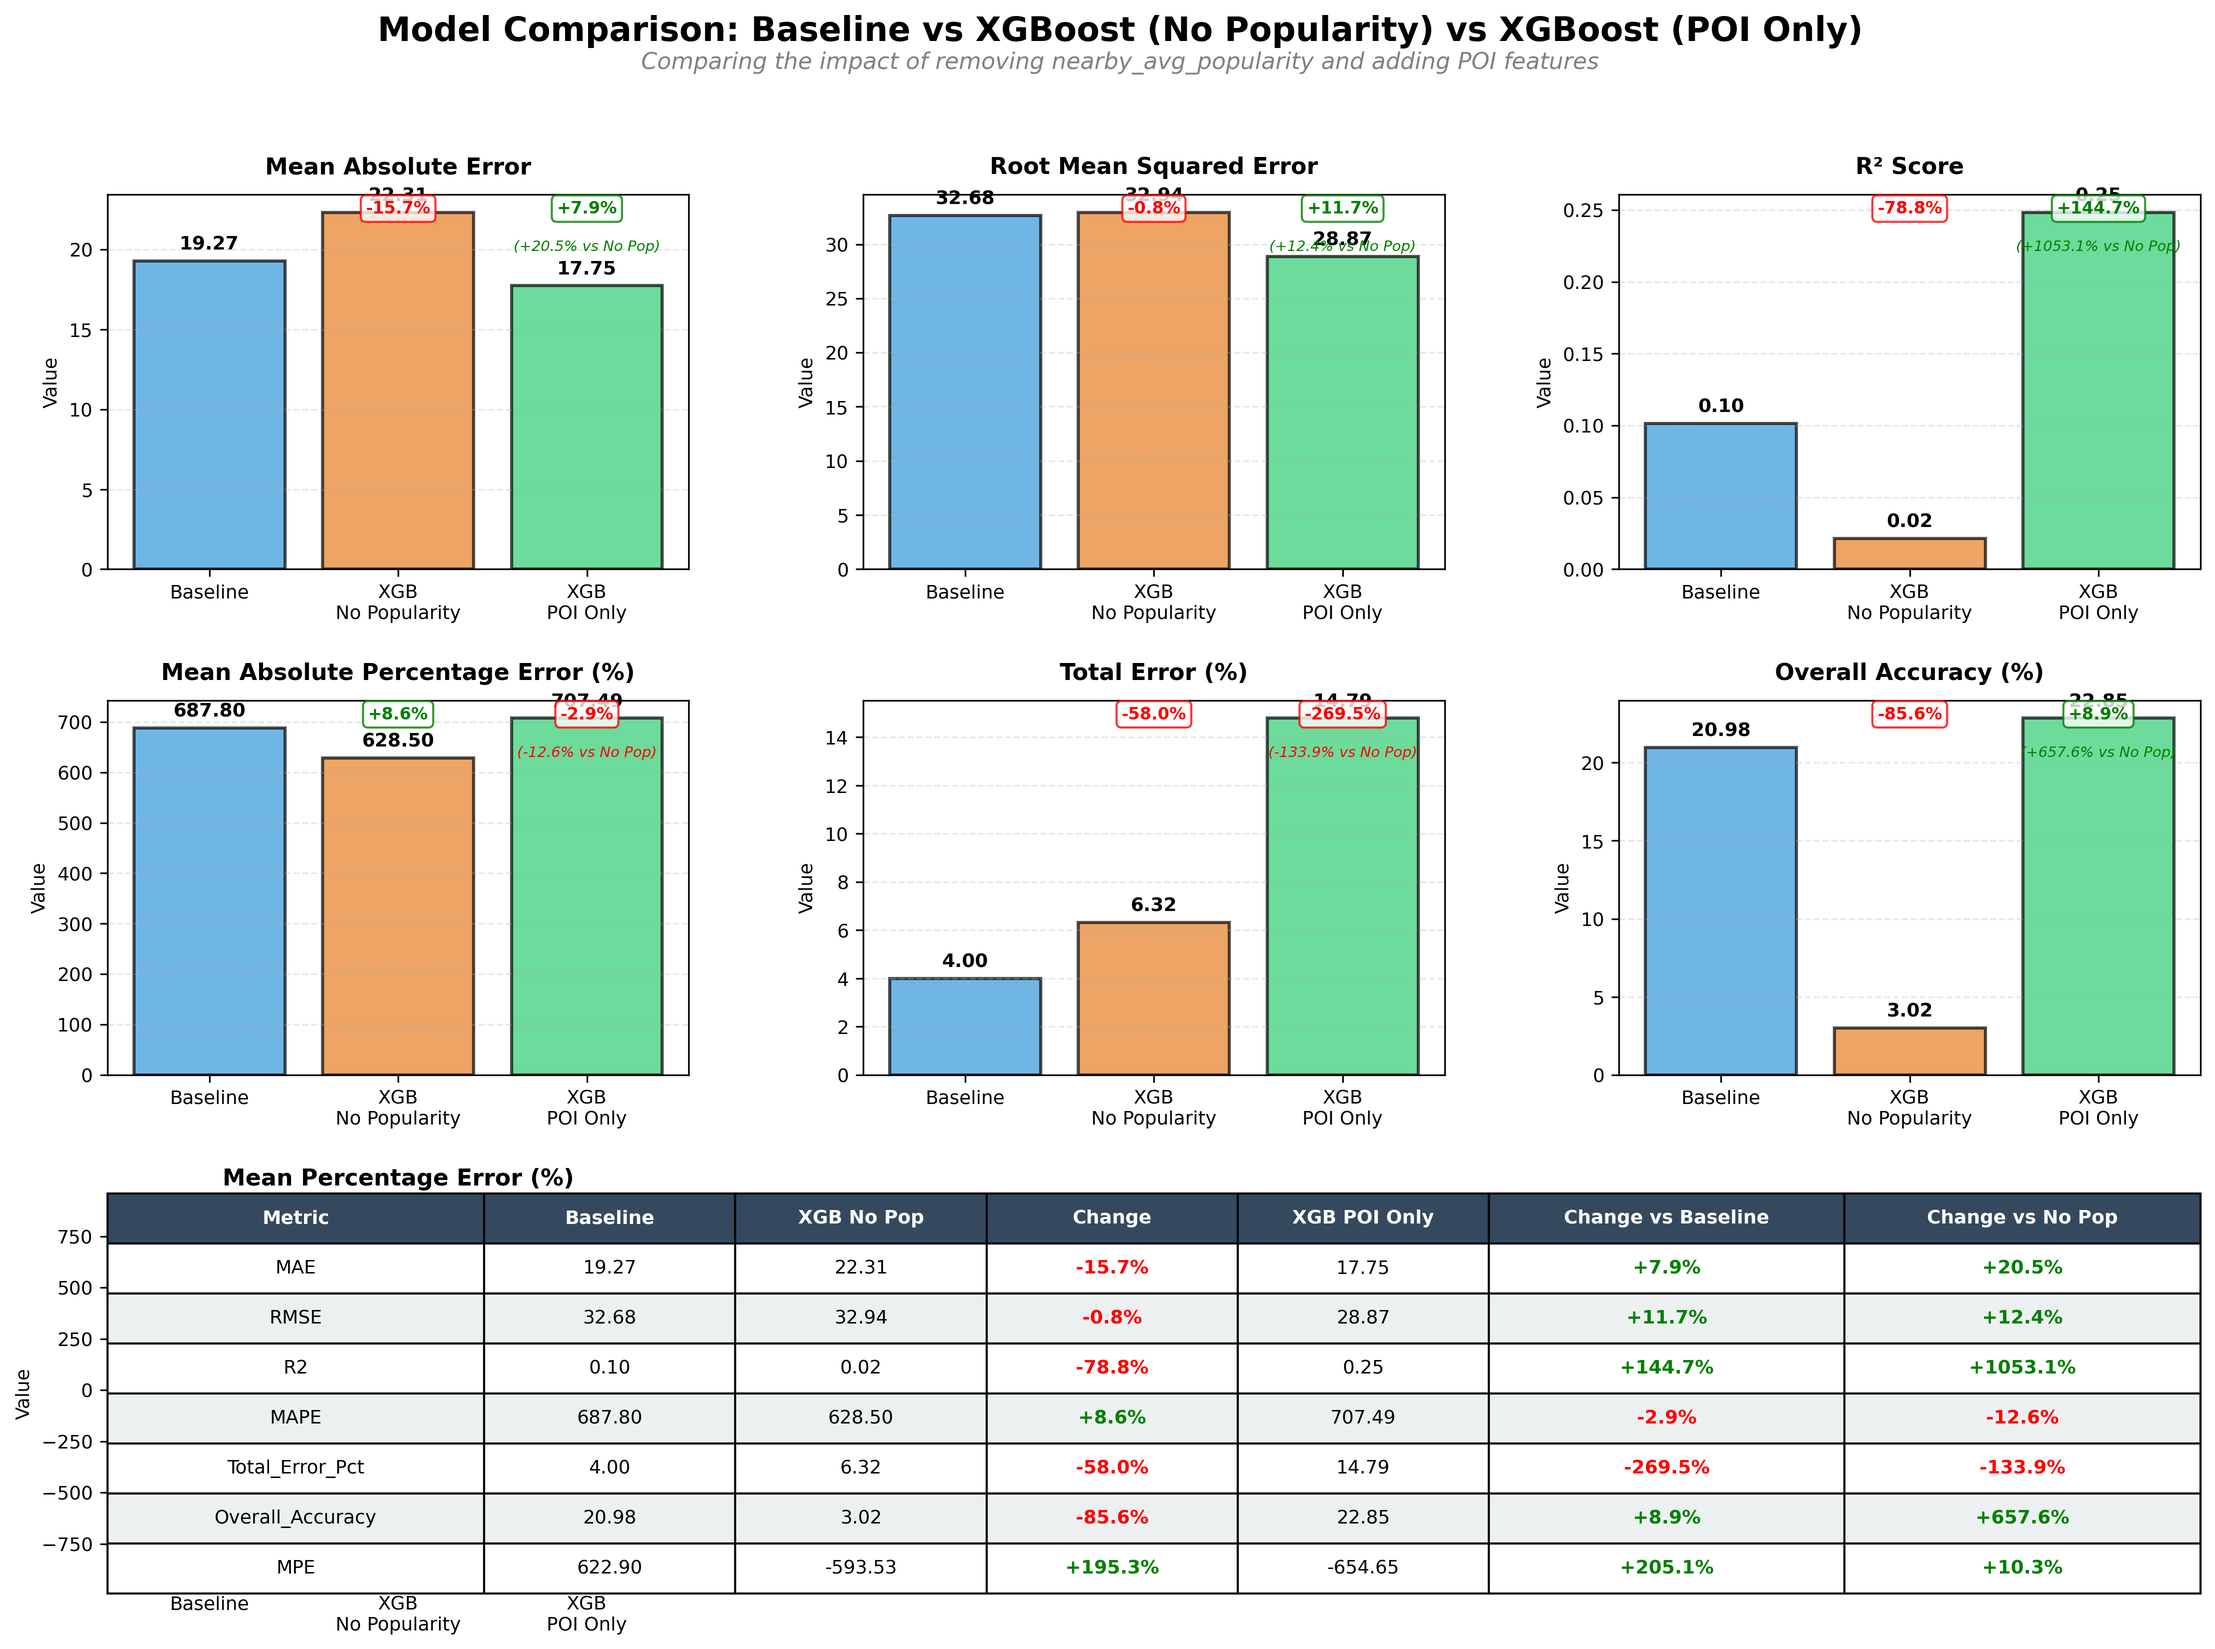
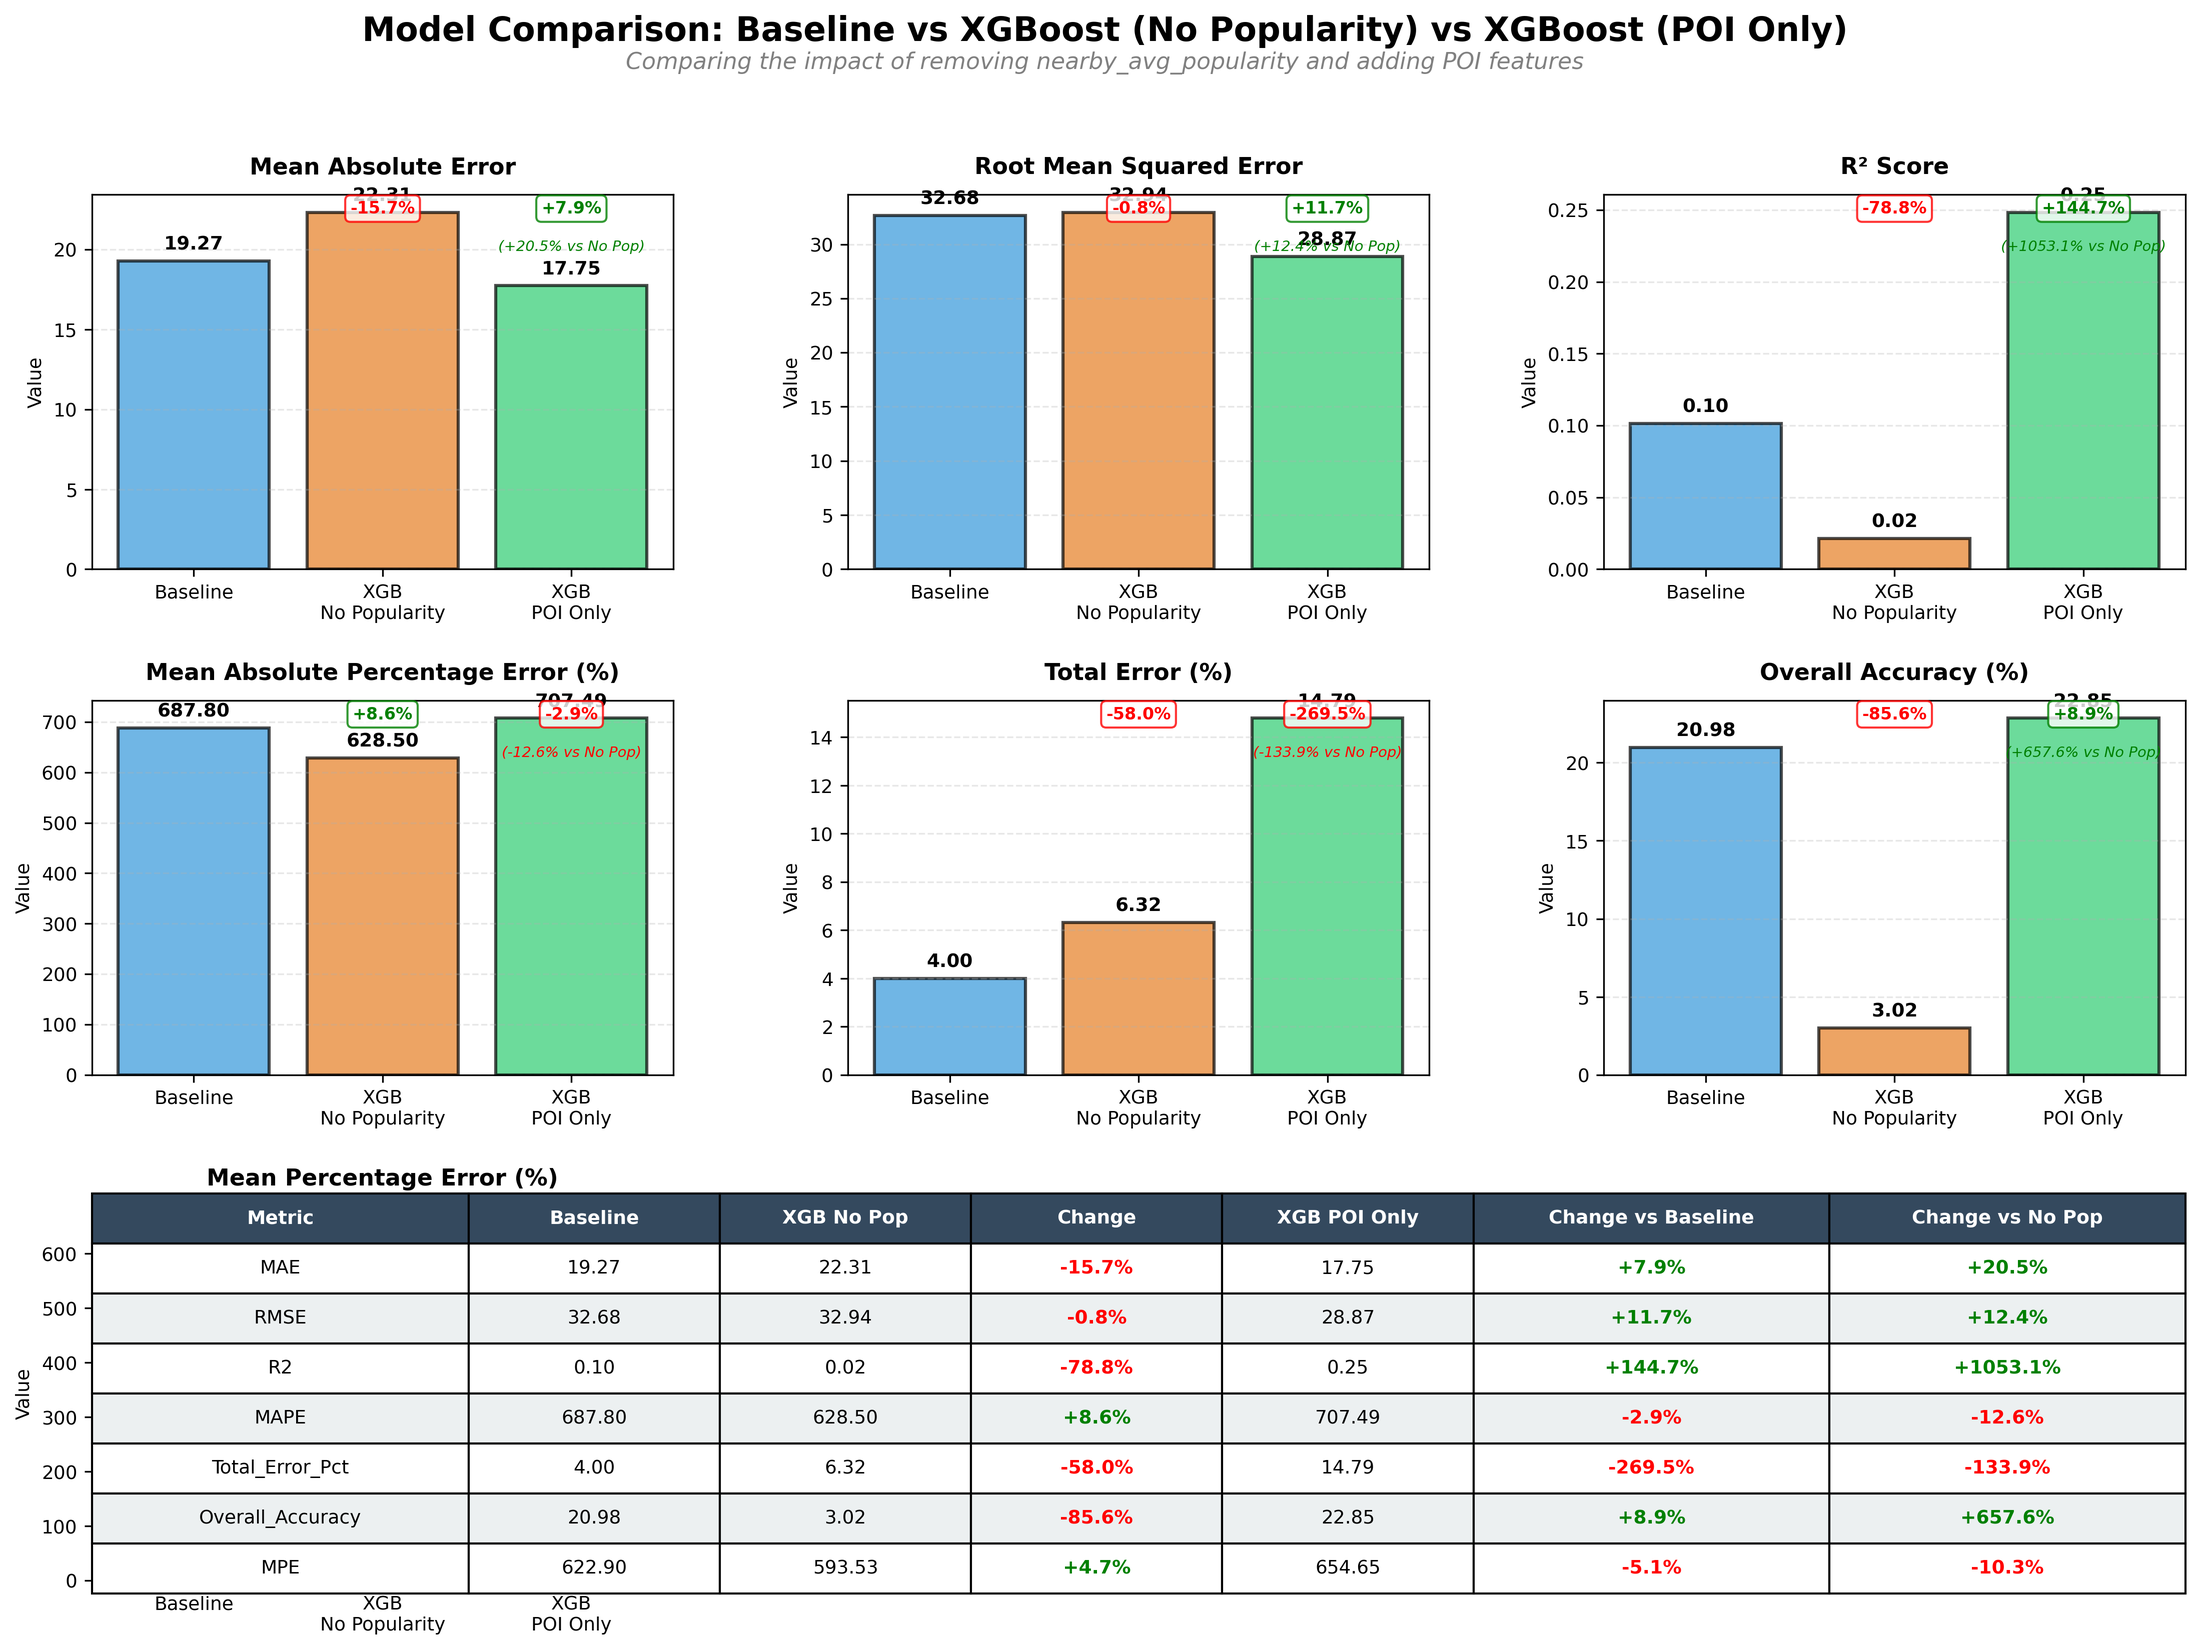
bug fix

diff --git a/src/models/xgboost_model_with_poi.py b/src/models/xgboost_model_with_poi.py
@@ -220,7 +220,7 @@ class XGBoostPredictorWithPOI:
         total_error_pct = (total_error / total_actual) * 100
         
         mape = np.mean(np.abs((y_test - y_pred) / np.maximum(y_test, 1))) * 100
-        mpe = np.mean((y_test - y_pred) / np.maximum(y_test, 1)) * 100
+        mpe = np.mean((y_pred - y_test) / np.maximum(y_test, 1)) * 100
         
         total_abs_error = np.abs(y_test - y_pred).sum()
         total_squared_error = ((y_test - y_pred) ** 2).sum()

diff --git a/src/models/xgboost_no_popularity.py b/src/models/xgboost_no_popularity.py
@@ -140,7 +140,7 @@ class XGBoostNoPopularity:
         total_error_pct = (total_error / total_actual) * 100
         
         mape = np.mean(np.abs((y_test - y_pred) / np.maximum(y_test, 1))) * 100
-        mpe = np.mean((y_test - y_pred) / np.maximum(y_test, 1)) * 100
+        mpe = np.mean((y_pred - y_test) / np.maximum(y_test, 1)) * 100
         
         total_abs_error = np.abs(y_test - y_pred).sum()
         total_squared_error = ((y_test - y_pred) ** 2).sum()

diff --git a/src/models/xgboost_poi_only.py b/src/models/xgboost_poi_only.py
@@ -162,7 +162,7 @@ class XGBoostPOIOnly:
         total_error_pct = (total_error / total_actual) * 100
         
         mape = np.mean(np.abs((y_test - y_pred) / np.maximum(y_test, 1))) * 100
-        mpe = np.mean((y_test - y_pred) / np.maximum(y_test, 1)) * 100
+        mpe = np.mean((y_pred - y_test) / np.maximum(y_test, 1)) * 100
         
         total_abs_error = np.abs(y_test - y_pred).sum()
         total_squared_error = ((y_test - y_pred) ** 2).sum()

diff --git a/README.md b/README.md
@@ -1,31 +1,5 @@
 # BlueBike
 
-## Visualizations
-
-### Interactive Maps (HTML)
-
-Open these HTML files in a browser to explore interactive maps:
-
-- **[Station POI Type Map](results/poi_analysis/station_type_map.html)** - Station classification by surrounding Points of Interest
-- **[Grid POI Distribution Map](results/grid_analysis/grid_poi_map.html)** - POI features across 500m×500m grid cells
-- **[Grid Demand Heatmap](results/grid_analysis/grid_demand_map.html)** - Predicted demand vs actual station distribution
-
-### Charts and Figures
-
-**Model Performance:**
-- [Model Comparison (Baseline vs XGBoost)](results/comparison/model_comparison.png)
-- [Three Model Comparison](results/comparison/three_model_comparison.png)
-- [XGBoost Feature Importance](results/xgboost/feature_importance.png)
-- [POI Only Feature Importance](results/xgboost_poi_only/feature_importance_poi_only.png)
-- [No Location Feature Importance](results/xgboost_no_popularity/feature_importance_no_popularity.png)
-
-**Exploratory Data Analysis:**
-- [Yearly Departure Trend](results/figures/overview/yearly_departure_trend.png)
-- [Daily Patterns](results/figures/daily/daily_patterns.png)
-- [Station Activity](results/figures/station/station_activity.png)
-
----
-
 ## How to Build and Run the Code
 
 ### Installation
